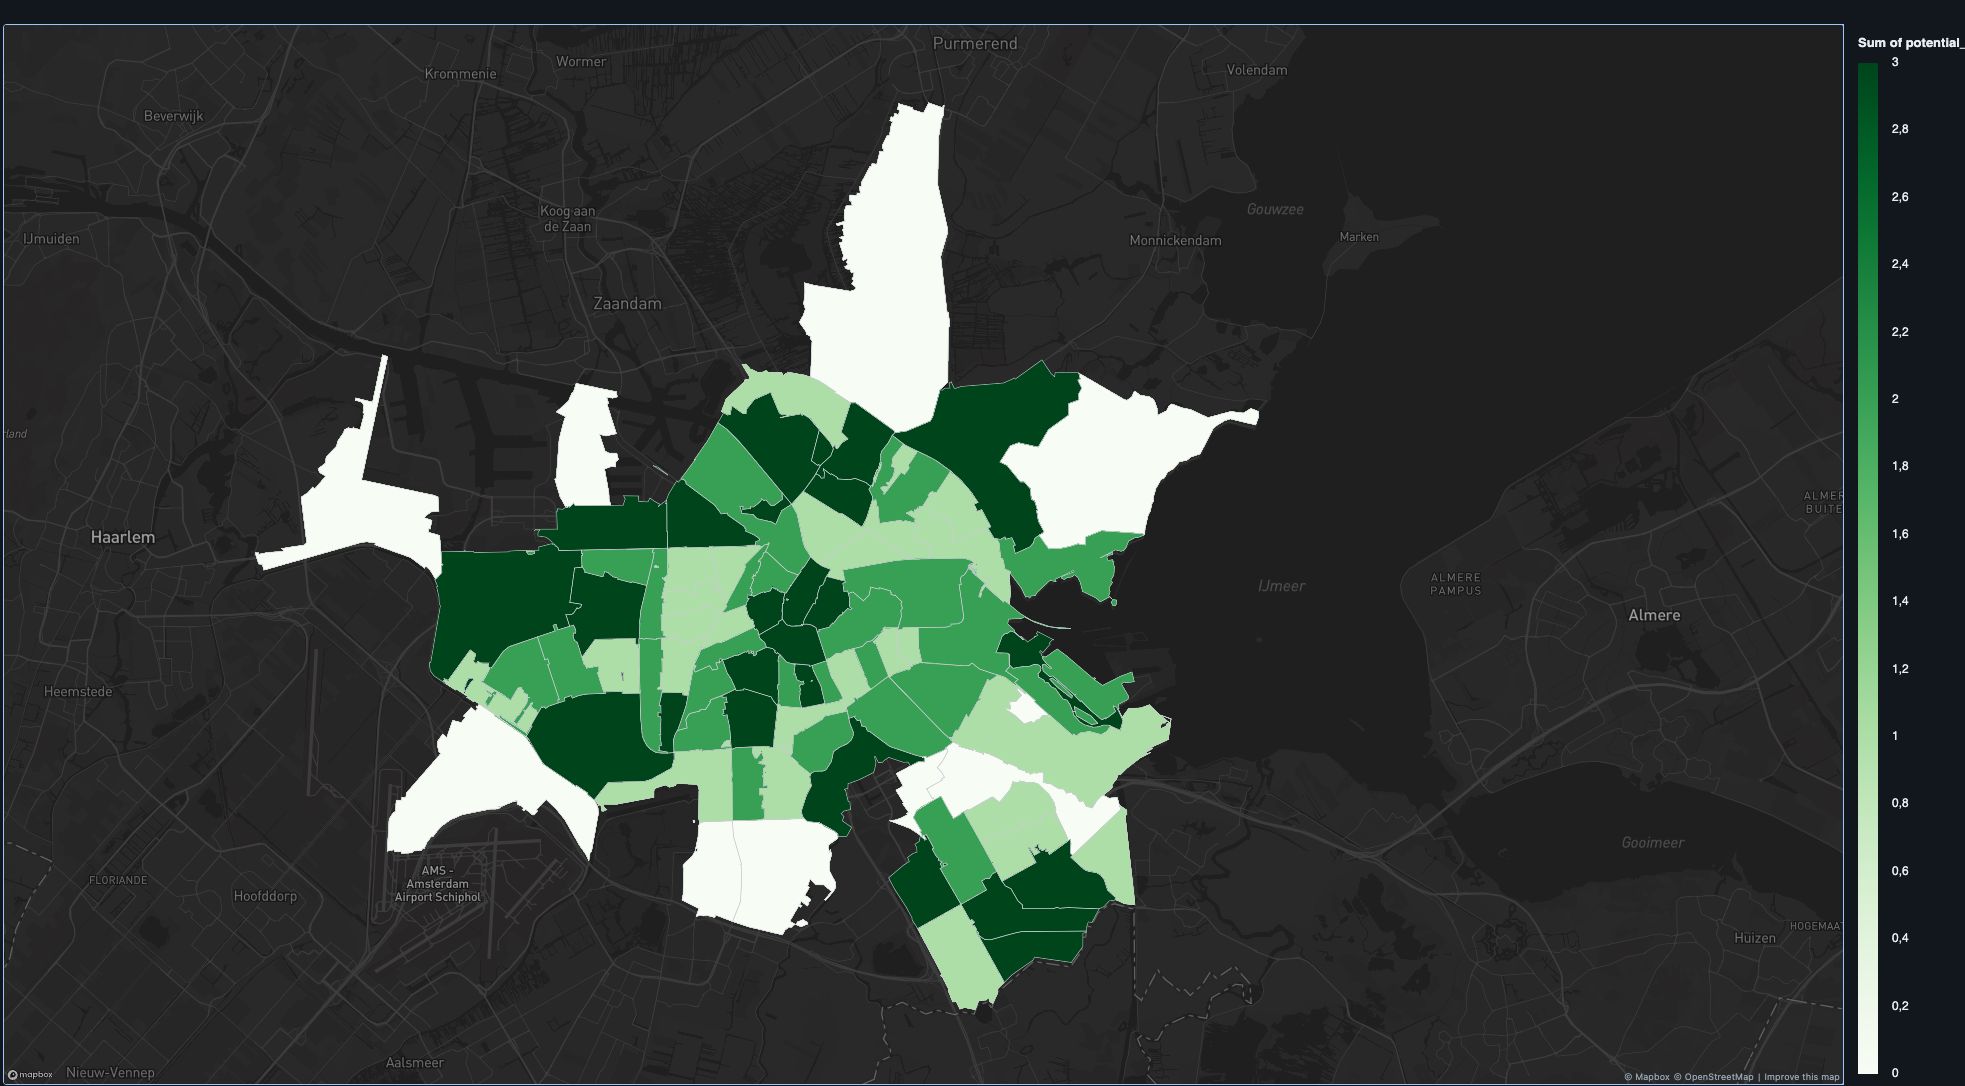
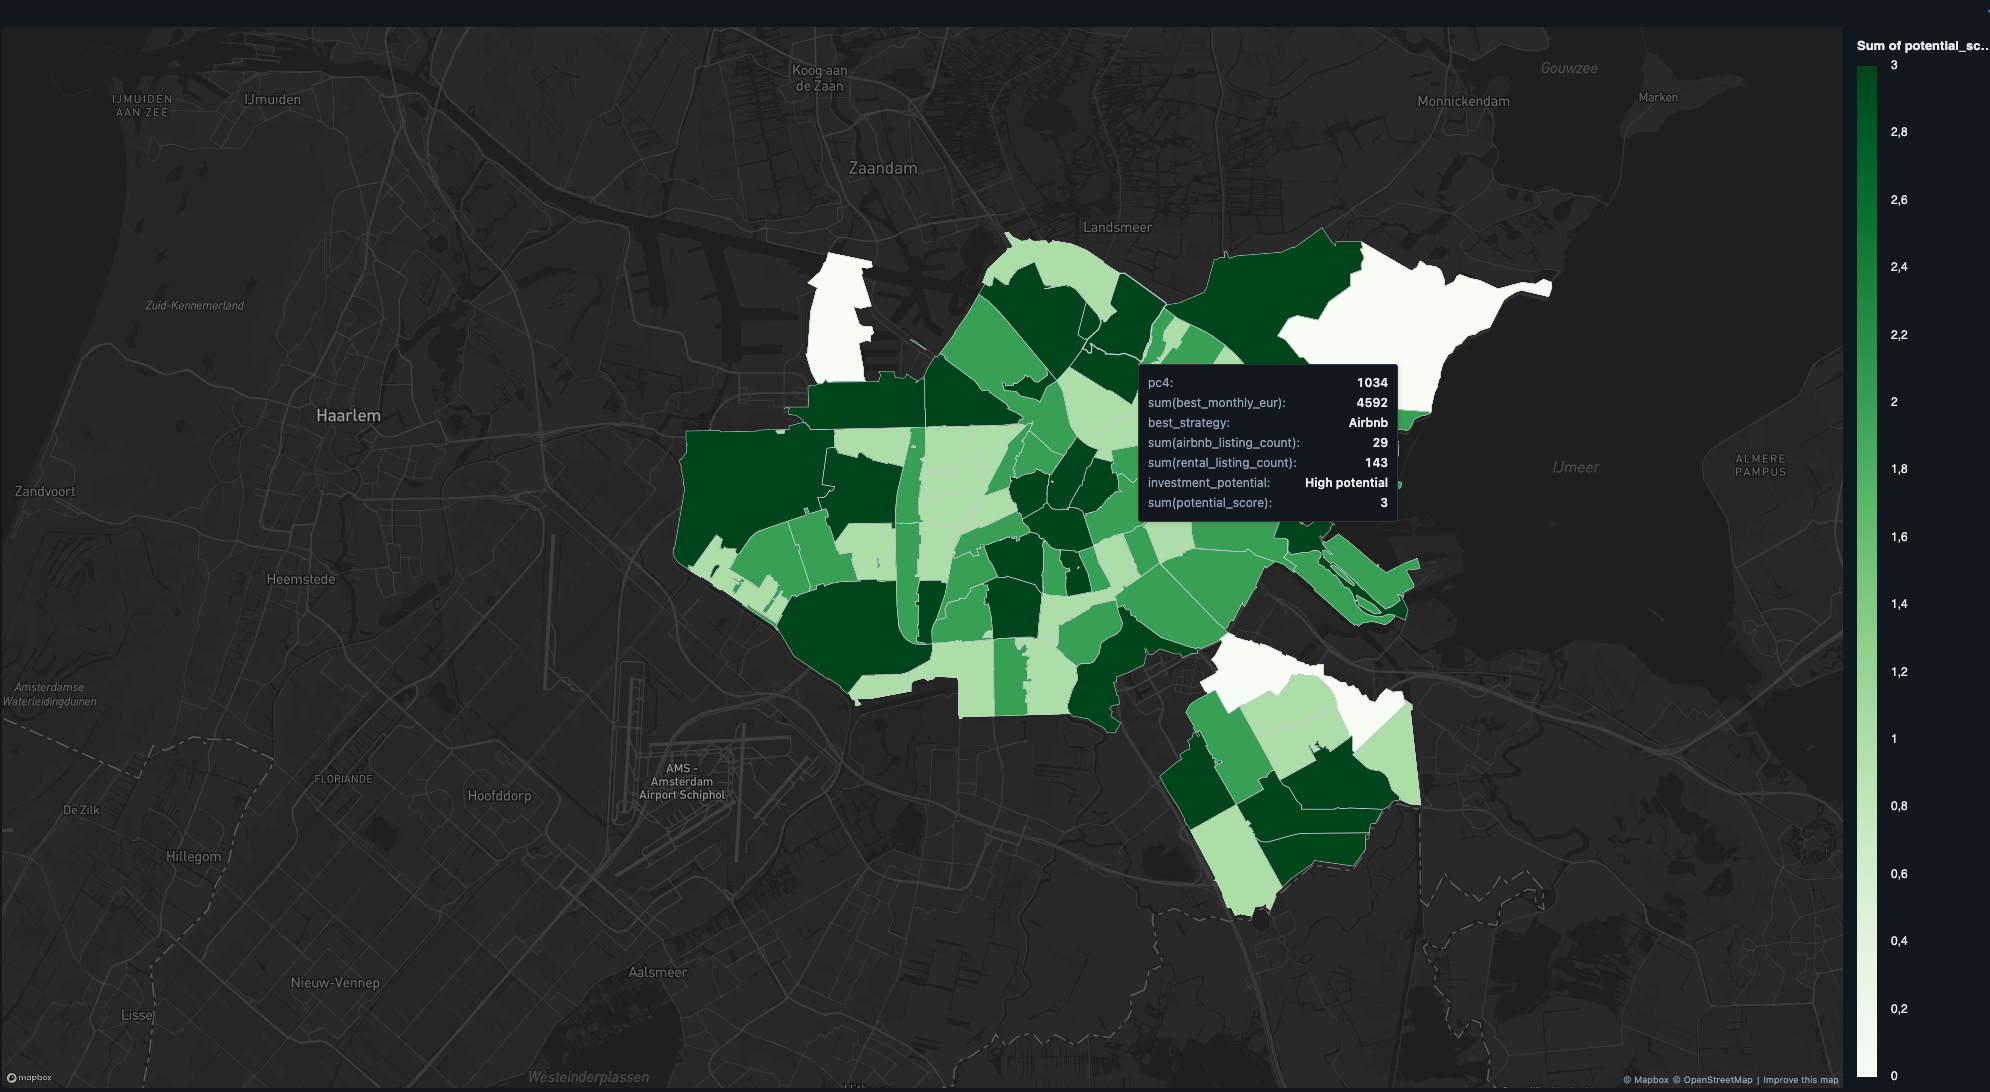
Update README limitations and refresh investment potential map
Drop the src/ packaging rationale paragraph and note the missing 2019
property sale price data as a known limitation.

diff --git a/README.md b/README.md
@@ -86,8 +86,6 @@ data/
   output/           Pipeline output (Delta tables + Parquet exports) — gitignored
 ```
 
-**Why `src/` is separate from the notebooks:** the transform and geo logic lives in a plain Python package so it can be unit-tested with pytest without Spark or a cluster. The notebooks and the tests both import it by adding `src/` to `sys.path`. It is not packaged as a wheel on purpose: the code is used by a single job in a single repo, so a wheel would add a build step and a serverless environment dependency without any benefit. Packaging becomes worth it once the library is shared across jobs or repos, or needs its own version.
-
 ---
 
 ## Running the pipeline
@@ -180,3 +178,4 @@ pre-commit run --all-files     # run once across the repo
 | Uniform occupancy rate | 66% applied to all Airbnb listings; in reality varies significantly by neighbourhood and property type |
 | No actual occupancy data | Airbnb dataset contains nightly prices only — occupancy is estimated, not measured |
 | Geo backfill boundary | Point-in-polygon only covers postcodes in `post_codes.geojson`; Airbnb listings that resolve to no Amsterdam PC4 are dropped in Silver |
+| No property sale prices | A full investment-potential view needs purchase prices per postcode to compute yield, but no sale price dataset for 2019 could be found, so the comparison covers revenue only |
